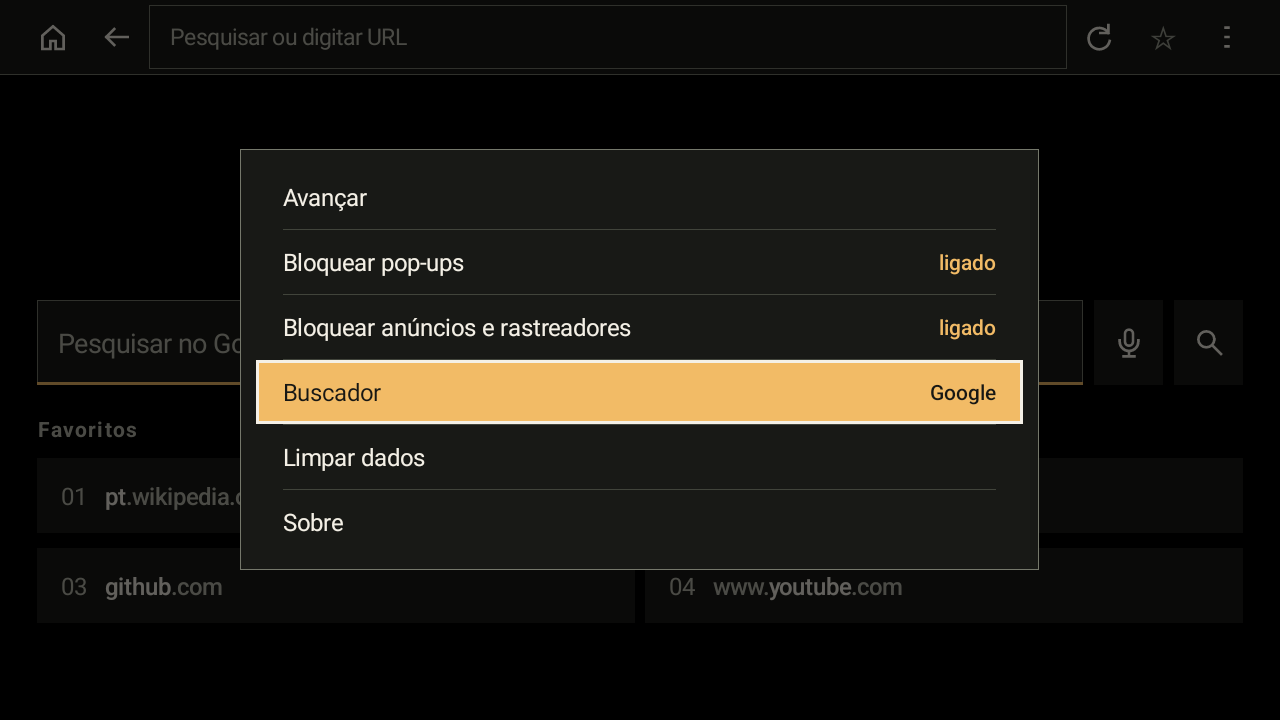
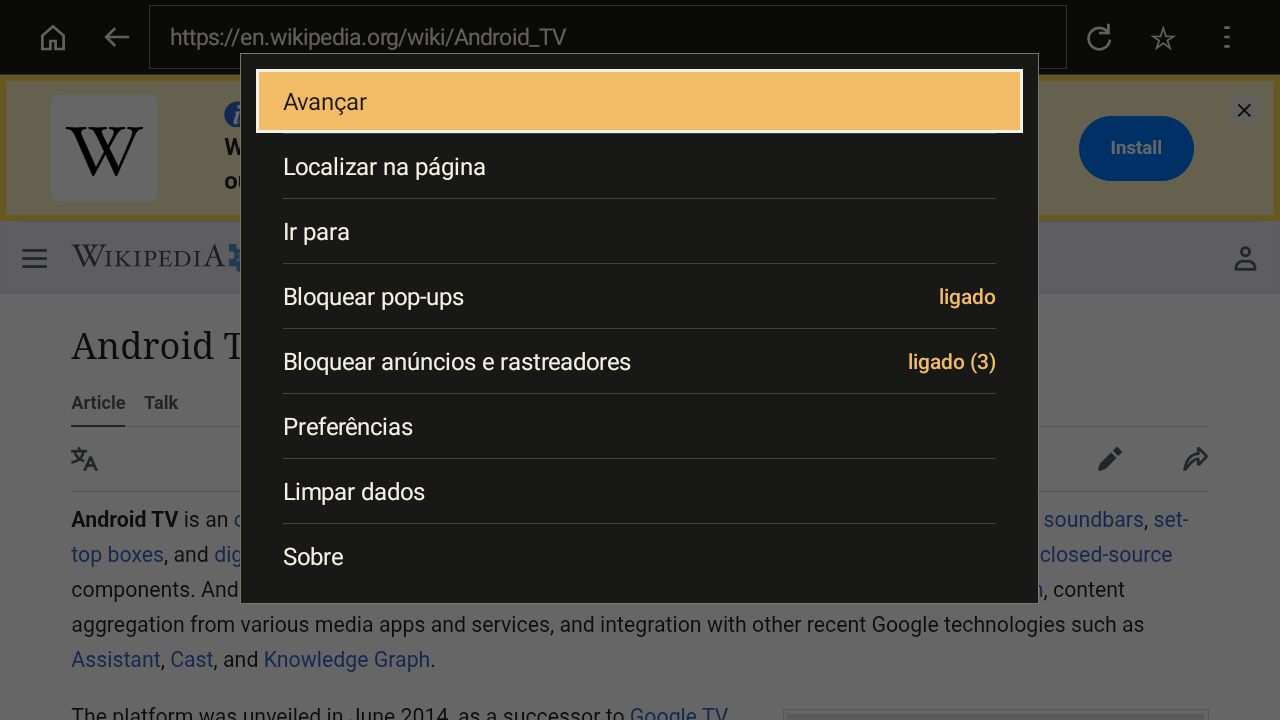
docs(brand): refresh the menu preview

diff --git a/docs/brand/design.md b/docs/brand/design.md
@@ -108,14 +108,13 @@ TV menus use a bordered opaque panel, 48 dp rows and inset 1 dp separators.
 Six entries occupy 317 dp including 24 dp panel padding and five separators.
 An entry containing `: ` is split at its last separator for presentation: label
 at the start, original value at the end in amber. Focus fills the entire row.
-The complete original entry is its accessible name; selection callbacks and
-option strings are unchanged. Entries without that separator remain intact.
+The complete menu entry is its accessible name. Entries without that separator
+remain intact.
 Phone choices retain the native themed dialog.
 
 The loading line and cursor accent are both continuous, square-ended 2 dp
 strokes in brand amber on TV. The pointer retains ivory fill and an ink outline;
-its amber edge replaces the filled inset. Loading timing and navigation behavior
-are unchanged. Phone loading uses the theme accent.
+its amber edge follows the pointer shape. Phone loading uses the theme accent.
 
 ## Resources and download actions
 
